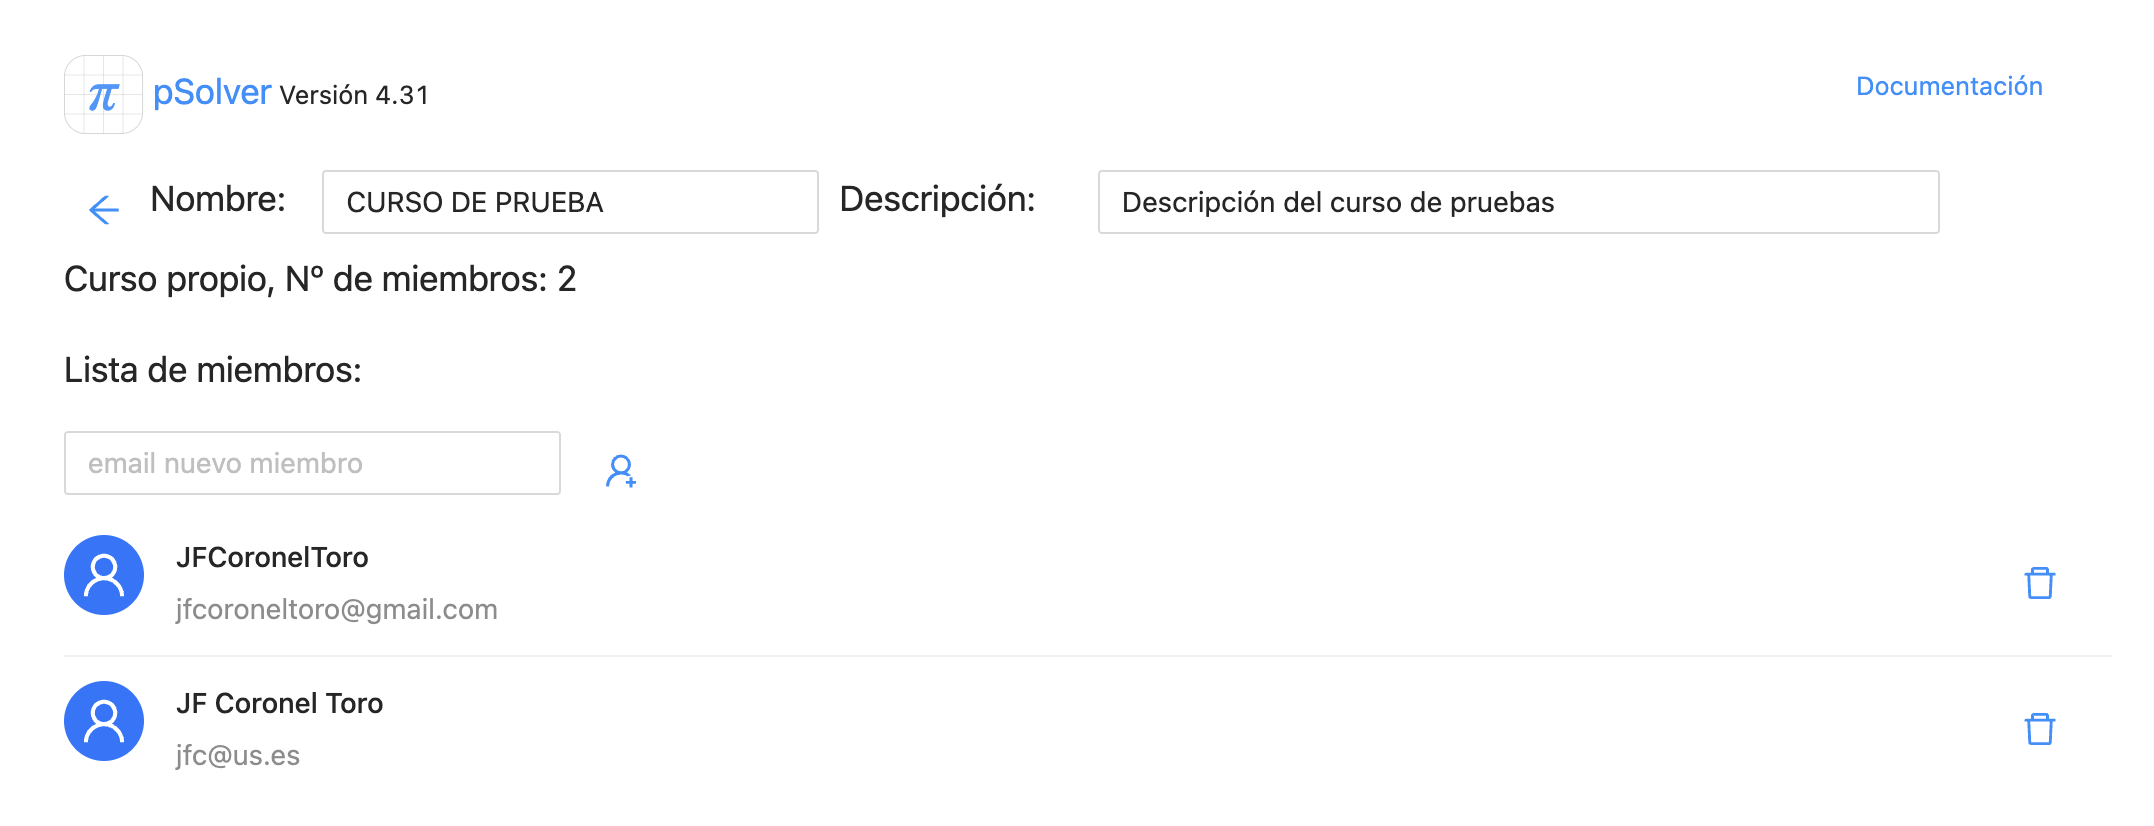
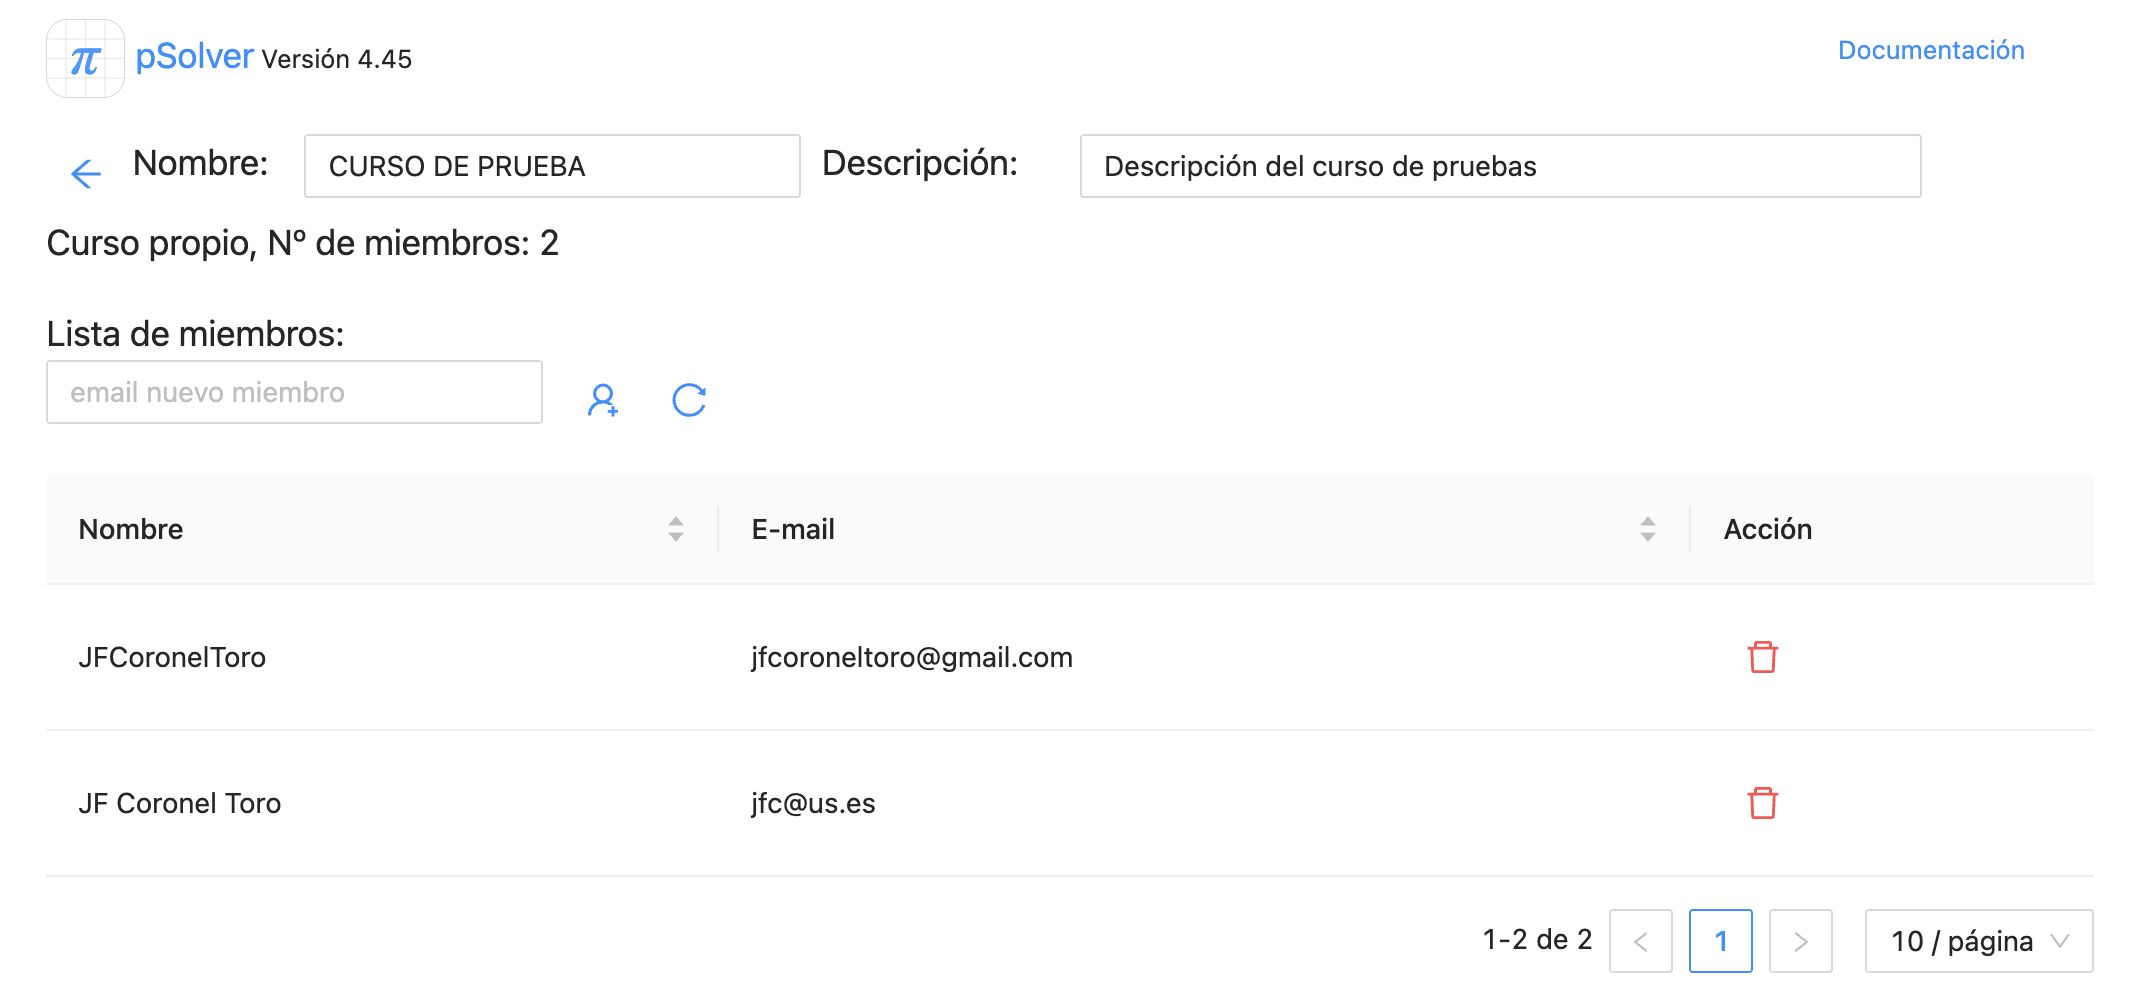
Versión 4.45 docs

diff --git a/docs/manual usuario.html b/docs/manual usuario.html
@@ -31,7 +31,7 @@
 
 		<div class="ui main container">
 			<h1>Manual de usuario</h1>
-			<h4>Actualizado a la versión 4.44</h4>
+			<h4>Actualizado a la versión 4.45</h4>
 
 			<h2>Índice</h2>
 			<ol style="font-size: 1.2rem; line-height: 1.3">
@@ -1462,8 +1462,9 @@
 				<br />
 
 				<p>Editando la tarea podremos ponerle nombre, descripción, seleccionar el curso al que pertenece y
-					establecer el ID del problema que se usará como enunciado y el de la solución. Con el botón "Enviar
-					a todo el curso", se crea una actividad en las cuentas de cada uno de los miembros del curso,
+					establecer el ID del problema que se usará como enunciado y el de la solución. Con el botón  
+					<svg viewBox="64 64 896 896" focusable="false" data-icon="send" width="1em" height="1em" fill="currentColor" aria-hidden="true"><defs><style></style></defs><path d="M931.4 498.9L94.9 79.5c-3.4-1.7-7.3-2.1-11-1.2a15.99 15.99 0 00-11.7 19.3l86.2 352.2c1.3 5.3 5.2 9.6 10.4 11.3l147.7 50.7-147.6 50.7c-5.2 1.8-9.1 6-10.3 11.3L72.2 926.5c-.9 3.7-.5 7.6 1.2 10.9 3.9 7.9 13.5 11.1 21.5 7.2l836.5-417c3.1-1.5 5.6-4.1 7.2-7.1 3.9-8 .7-17.6-7.2-21.6zM170.8 826.3l50.3-205.6 295.2-101.3c2.3-.8 4.2-2.6 5-5 1.4-4.2-.8-8.7-5-10.2L221.1 403 171 198.2l628 314.9-628.2 313.2z"></path></svg>
+					, se crea una actividad en las cuentas de cada uno de los miembros del curso,
 					copiando el contenido del problema "enunciado", el sistema comprueba si el alumno ya tiene esa
 					actividad para no duplicarla.
 					También es posible que el alumno cree la actividad
@@ -1480,10 +1481,9 @@
 					alt="Editor de tareas" />
 				<br />
 
-				<p>Inicialmente las actividades no incluyen la posibilidad de que el alumno pueda autocorregirse, pero
-					usando
-					el botón "Activar autocorrección" podemos activar esta posibilidad para todos los alumnos en la
-					tabla de actividades.
+				<p>Inicialmente las actividades no incluyen la posibilidad de que el alumno pueda autocorregirse, pero usando
+					el botón  <svg viewBox="64 64 896 896" focusable="false" data-icon="schedule" width="1em" height="1em" fill="currentColor" aria-hidden="true"><path d="M928 224H768v-56c0-4.4-3.6-8-8-8h-56c-4.4 0-8 3.6-8 8v56H548v-56c0-4.4-3.6-8-8-8h-56c-4.4 0-8 3.6-8 8v56H328v-56c0-4.4-3.6-8-8-8h-56c-4.4 0-8 3.6-8 8v56H96c-17.7 0-32 14.3-32 32v576c0 17.7 14.3 32 32 32h832c17.7 0 32-14.3 32-32V256c0-17.7-14.3-32-32-32zm-40 568H136V296h120v56c0 4.4 3.6 8 8 8h56c4.4 0 8-3.6 8-8v-56h148v56c0 4.4 3.6 8 8 8h56c4.4 0 8-3.6 8-8v-56h148v56c0 4.4 3.6 8 8 8h56c4.4 0 8-3.6 8-8v-56h120v496zM416 496H232c-4.4 0-8 3.6-8 8v48c0 4.4 3.6 8 8 8h184c4.4 0 8-3.6 8-8v-48c0-4.4-3.6-8-8-8zm0 136H232c-4.4 0-8 3.6-8 8v48c0 4.4 3.6 8 8 8h184c4.4 0 8-3.6 8-8v-48c0-4.4-3.6-8-8-8zm308.2-177.4L620.6 598.3l-52.8-73.1c-3-4.2-7.8-6.6-12.9-6.6H500c-6.5 0-10.3 7.4-6.5 12.7l114.1 158.2a15.9 15.9 0 0025.8 0l165-228.7c3.8-5.3 0-12.7-6.5-12.7H737c-5-.1-9.8 2.4-12.8 6.5z"></path></svg>
+					podemos activar esta posibilidad para todos los alumnos del curso.
 				</p>
 
 
@@ -1514,20 +1514,17 @@
 					alt="Ejemplo de actividad entregada" />
 
 				<br />
-				<p>Si volvemos a la tarea y pulsamos el botón "Actualizar tabla", aparecerá el listado de las
-					actividades realizadas por los alumnos y la corrección de las variables principales, mostrando si
-					son correctas, incorrectas o no han sido
-					encontradas. Seleccionando una actividad concreta con el check de la primera columna y usando el
-					botón "Ver actividad seleccionada" podremos ver la actividad del alumno. Usando el botón inferior
-					"Exportar a CSV" descargamos un archivo que contiene la tabla en formato compatible con cualquier
-					hoja de cálculo.
+				<p>Si volvemos a la tarea y pulsamos el botón 
+					<svg viewBox="64 64 896 896" focusable="false" data-icon="reload" width="1em" height="1em" fill="currentColor" aria-hidden="true"><path d="M909.1 209.3l-56.4 44.1C775.8 155.1 656.2 92 521.9 92 290 92 102.3 279.5 102 511.5 101.7 743.7 289.8 932 521.9 932c181.3 0 335.8-115 394.6-276.1 1.5-4.2-.7-8.9-4.9-10.3l-56.7-19.5a8 8 0 00-10.1 4.8c-1.8 5-3.8 10-5.9 14.9-17.3 41-42.1 77.8-73.7 109.4A344.77 344.77 0 01655.9 829c-42.3 17.9-87.4 27-133.8 27-46.5 0-91.5-9.1-133.8-27A341.5 341.5 0 01279 755.2a342.16 342.16 0 01-73.7-109.4c-17.9-42.4-27-87.4-27-133.9s9.1-91.5 27-133.9c17.3-41 42.1-77.8 73.7-109.4 31.6-31.6 68.4-56.4 109.3-73.8 42.3-17.9 87.4-27 133.8-27 46.5 0 91.5 9.1 133.8 27a341.5 341.5 0 01109.3 73.8c9.9 9.9 19.2 20.4 27.8 31.4l-60.2 47a8 8 0 003 14.1l175.6 43c5 1.2 9.9-2.6 9.9-7.7l.8-180.9c-.1-6.6-7.8-10.3-13-6.2z"></path></svg>
+					, se actualizará el listado de las actividades realizadas por los alumnos y la corrección de las variables principales, mostrando si
+					son correctas, incorrectas o no han sido encontradas.
+					Seleccionando una actividad concreta con el check de la primera columna y usando el botón
+					<svg viewBox="64 64 896 896" focusable="false" data-icon="eye" width="1em" height="1em" fill="currentColor" aria-hidden="true"><path d="M942.2 486.2C847.4 286.5 704.1 186 512 186c-192.2 0-335.4 100.5-430.2 300.3a60.3 60.3 0 000 51.5C176.6 737.5 319.9 838 512 838c192.2 0 335.4-100.5 430.2-300.3 7.7-16.2 7.7-35 0-51.5zM512 766c-161.3 0-279.4-81.8-362.7-254C232.6 339.8 350.7 258 512 258c161.3 0 279.4 81.8 362.7 254C791.5 684.2 673.4 766 512 766zm-4-430c-97.2 0-176 78.8-176 176s78.8 176 176 176 176-78.8 176-176-78.8-176-176-176zm0 288c-61.9 0-112-50.1-112-112s50.1-112 112-112 112 50.1 112 112-50.1 112-112 112z"></path></svg>
+					podremos ver la actividad del alumno. Usando el botón
+					<svg viewBox="64 64 896 896" focusable="false" data-icon="file-excel" width="1em" height="1em" fill="currentColor" aria-hidden="true"><path d="M854.6 288.6L639.4 73.4c-6-6-14.1-9.4-22.6-9.4H192c-17.7 0-32 14.3-32 32v832c0 17.7 14.3 32 32 32h640c17.7 0 32-14.3 32-32V311.3c0-8.5-3.4-16.7-9.4-22.7zM790.2 326H602V137.8L790.2 326zm1.8 562H232V136h302v216a42 42 0 0042 42h216v494zM514.1 580.1l-61.8-102.4c-2.2-3.6-6.1-5.8-10.3-5.8h-38.4c-2.3 0-4.5.6-6.4 1.9-5.6 3.5-7.3 10.9-3.7 16.6l82.3 130.4-83.4 132.8a12.04 12.04 0 0010.2 18.4h34.5c4.2 0 8-2.2 10.2-5.7L510 664.8l62.3 101.4c2.2 3.6 6.1 5.7 10.2 5.7H620c2.3 0 4.5-.7 6.5-1.9 5.6-3.6 7.2-11 3.6-16.6l-84-130.4 85.3-132.5a12.04 12.04 0 00-10.1-18.5h-35.7c-4.2 0-8.1 2.2-10.3 5.8l-61.2 102.3z"></path></svg> 
+					descargamos un archivo que contiene la tabla en formato compatible con cualquier hoja de cálculo.
 				</p>
 
-
-				<img class="ui bordered centered image" src="img/lista de actividades.png" width="960"
-					alt="Activities list" />
-
-				<br />
 				<h3>Actividades con cuestiones</h3>
 				<p>Las cuestiones son componentes que se pueden añadir a las actividades y que permiten al profesor
 					realizar preguntas al alumno sobre el problema. Estas preguntas pueden ser de tipo texto o de tipo

diff --git a/docs/user manual.html b/docs/user manual.html
@@ -31,7 +31,7 @@
 
 		<div class="ui main container">
 			<h1>User Manual</h1>
-			<h4>Updated to version 4.44</h4>
+			<h4>Updated to version 4.45</h4>
 
 			<h2>Index</h2>
 			<ol style="font-size: 1.2rem; line-height: 1.3">
@@ -1387,7 +1387,8 @@
 
 				<p>By editing the assignment we can name it, give it a description, select the course to which it
 					belongs and set the ID of the problem to be used as a statement and the ID of the solution. With the
-					“Send to the whole course” button, an activity is created in the accounts of each of the course
+					<svg viewBox="64 64 896 896" focusable="false" data-icon="send" width="1em" height="1em" fill="currentColor" aria-hidden="true"><defs><style></style></defs><path d="M931.4 498.9L94.9 79.5c-3.4-1.7-7.3-2.1-11-1.2a15.99 15.99 0 00-11.7 19.3l86.2 352.2c1.3 5.3 5.2 9.6 10.4 11.3l147.7 50.7-147.6 50.7c-5.2 1.8-9.1 6-10.3 11.3L72.2 926.5c-.9 3.7-.5 7.6 1.2 10.9 3.9 7.9 13.5 11.1 21.5 7.2l836.5-417c3.1-1.5 5.6-4.1 7.2-7.1 3.9-8 .7-17.6-7.2-21.6zM170.8 826.3l50.3-205.6 295.2-101.3c2.3-.8 4.2-2.6 5-5 1.4-4.2-.8-8.7-5-10.2L221.1 403 171 198.2l628 314.9-628.2 313.2z"></path></svg>
+ 					button, an activity is created in the accounts of each of the course
 					members, copying the content of the problem “statement”, the system checks if the student already
 					has that activity so as not to duplicate it. It is also possible for the student to
 					create the activity on his/her own, if we send him/her the task ID, using the button <svg
@@ -1431,18 +1432,17 @@
 					alt="Activity delivered" />
 
 				<br />
-				<p>If we go back to the task and click on the “Update table” button, the list of the activities
-					performed by the students and the correction of the main variables will appear, showing whether they
+				<p>If we go back to the task and click on the 
+					<svg viewBox="64 64 896 896" focusable="false" data-icon="reload" width="1em" height="1em" fill="currentColor" aria-hidden="true"><path d="M909.1 209.3l-56.4 44.1C775.8 155.1 656.2 92 521.9 92 290 92 102.3 279.5 102 511.5 101.7 743.7 289.8 932 521.9 932c181.3 0 335.8-115 394.6-276.1 1.5-4.2-.7-8.9-4.9-10.3l-56.7-19.5a8 8 0 00-10.1 4.8c-1.8 5-3.8 10-5.9 14.9-17.3 41-42.1 77.8-73.7 109.4A344.77 344.77 0 01655.9 829c-42.3 17.9-87.4 27-133.8 27-46.5 0-91.5-9.1-133.8-27A341.5 341.5 0 01279 755.2a342.16 342.16 0 01-73.7-109.4c-17.9-42.4-27-87.4-27-133.9s9.1-91.5 27-133.9c17.3-41 42.1-77.8 73.7-109.4 31.6-31.6 68.4-56.4 109.3-73.8 42.3-17.9 87.4-27 133.8-27 46.5 0 91.5 9.1 133.8 27a341.5 341.5 0 01109.3 73.8c9.9 9.9 19.2 20.4 27.8 31.4l-60.2 47a8 8 0 003 14.1l175.6 43c5 1.2 9.9-2.6 9.9-7.7l.8-180.9c-.1-6.6-7.8-10.3-13-6.2z"></path></svg>
+					button, the list of the activities
+					performed by the students and the correction of the main variables will update, showing whether they
 					are correct, incorrect or have not been found. By selecting a specific activity with the check in
-					the first column and using the button “See selected activity” we can see the student's activity.
-					Using the “Export to CSV” button below we download a file containing the table in a format
-					compatible with any spreadsheet.
+					the first column and using the button 
+					<svg viewBox="64 64 896 896" focusable="false" data-icon="eye" width="1em" height="1em" fill="currentColor" aria-hidden="true"><path d="M942.2 486.2C847.4 286.5 704.1 186 512 186c-192.2 0-335.4 100.5-430.2 300.3a60.3 60.3 0 000 51.5C176.6 737.5 319.9 838 512 838c192.2 0 335.4-100.5 430.2-300.3 7.7-16.2 7.7-35 0-51.5zM512 766c-161.3 0-279.4-81.8-362.7-254C232.6 339.8 350.7 258 512 258c161.3 0 279.4 81.8 362.7 254C791.5 684.2 673.4 766 512 766zm-4-430c-97.2 0-176 78.8-176 176s78.8 176 176 176 176-78.8 176-176-78.8-176-176-176zm0 288c-61.9 0-112-50.1-112-112s50.1-112 112-112 112 50.1 112 112-50.1 112-112 112z"></path></svg>
+					we can see the student's activity. Using the 
+					<svg viewBox="64 64 896 896" focusable="false" data-icon="file-excel" width="1em" height="1em" fill="currentColor" aria-hidden="true"><path d="M854.6 288.6L639.4 73.4c-6-6-14.1-9.4-22.6-9.4H192c-17.7 0-32 14.3-32 32v832c0 17.7 14.3 32 32 32h640c17.7 0 32-14.3 32-32V311.3c0-8.5-3.4-16.7-9.4-22.7zM790.2 326H602V137.8L790.2 326zm1.8 562H232V136h302v216a42 42 0 0042 42h216v494zM514.1 580.1l-61.8-102.4c-2.2-3.6-6.1-5.8-10.3-5.8h-38.4c-2.3 0-4.5.6-6.4 1.9-5.6 3.5-7.3 10.9-3.7 16.6l82.3 130.4-83.4 132.8a12.04 12.04 0 0010.2 18.4h34.5c4.2 0 8-2.2 10.2-5.7L510 664.8l62.3 101.4c2.2 3.6 6.1 5.7 10.2 5.7H620c2.3 0 4.5-.7 6.5-1.9 5.6-3.6 7.2-11 3.6-16.6l-84-130.4 85.3-132.5a12.04 12.04 0 00-10.1-18.5h-35.7c-4.2 0-8.1 2.2-10.3 5.8l-61.2 102.3z"></path></svg> 
+					button below we download a file containing the table in a format compatible with any spreadsheet.
 				</p>
-
-				<img class="ui bordered centered image" src="img/lista de actividades_en.png" width="960"
-					alt="Lista de actividades" />
-
-				<br />
 
 				<h3>Activities with questions</h3>
 				<p>Questions are components that can be added to the activities and that allow the teacher

diff --git a/docs/la_historia.html b/docs/la_historia.html
@@ -35,6 +35,18 @@
 			<h4>Evolución temporal inversa (de abajo arriba)</h4>
 
 			<div class="ui segment">
+				<h3>V 4.45 (1 de diciembre de 2025)</h3>
+				<p>Gestión de curso con tabla</p>
+				<ul>
+					<li>Se cambia la gestión de cursos a tabla, con botón actualizar y un mensaje de la fecha de última actualización.</li>
+					<li>Se cambia el formato de los botones en la edición de las tareas a botones pequeños.</li>
+					<li>Mensaje de espera en los botones de los editores de curso y de tareas, mientras se realiza la acción.</li>
+					<li>El nombre del problema pasa a campo editable cuando se hace click o se pasa el ratón sobre él.</li>
+					<li>Se corrige un error por el que el doble click sobre un texto no ponía el foco en el Editor Rápido.</li>
+				</ul>
+			</div>
+
+			<div class="ui segment">
 				<h3>V 4.44 (1 de noviembre de 2025)</h3>
 				<p>Entregrar actividad con botón</p>
 				<ul>

diff --git a/docs/history.html b/docs/history.html
@@ -37,6 +37,18 @@
 			<p>Only changes since the first English version (version 4.0) are shown.</p>
 
 			<div class="ui segment">
+				<h3>V 4.45 (1 December 2025)</h3>
+				<p>Course management with table</p>
+				<ul>
+					<li>Course management is changed to a table, with an update button and a message showing the date of the last update.</li>
+					<li>The format of the buttons in the task editing is changed to small buttons.</li>
+					<li>Waiting message on the buttons of the course and task editors while the action is being performed.</li>
+					<li>The name of the problem becomes an editable field when clicked or hovered over.</li>
+					<li>An error is corrected where double-clicking on a text did not focus the Quick Editor.</li>
+				</ul>
+			</div>
+
+			<div class="ui segment">
 				<h3>V 4.44 (1 November 2025)</h3>
 				<p>Submit activity with button</p>
 				<ul>

diff --git a/docs/index_es.html b/docs/index_es.html
@@ -62,7 +62,7 @@
 					(Markdown),
 					imágenes, propiedades de fluidos (CoolProp), tablas y gráficas.</p>
 
-				<h4>Versión actual: 4.44</h4>
+				<h4>Versión actual: 4.45</h4>
 				<button onclick="location.href='../app/'" class="ui primary button">
 					Ir a la aplicación
 				</button>

diff --git a/docs/index.html b/docs/index.html
@@ -60,7 +60,7 @@
 				(Markdown),
 				images, fluid properties (CoolProp), tables and graphs.</p>
 
-			<h4>Current version: 4.44</h4>
+			<h4>Current version: 4.45</h4>
 			<button onclick="location.href='../app/'" class="ui primary button">
 				Go to application
 			</button>
